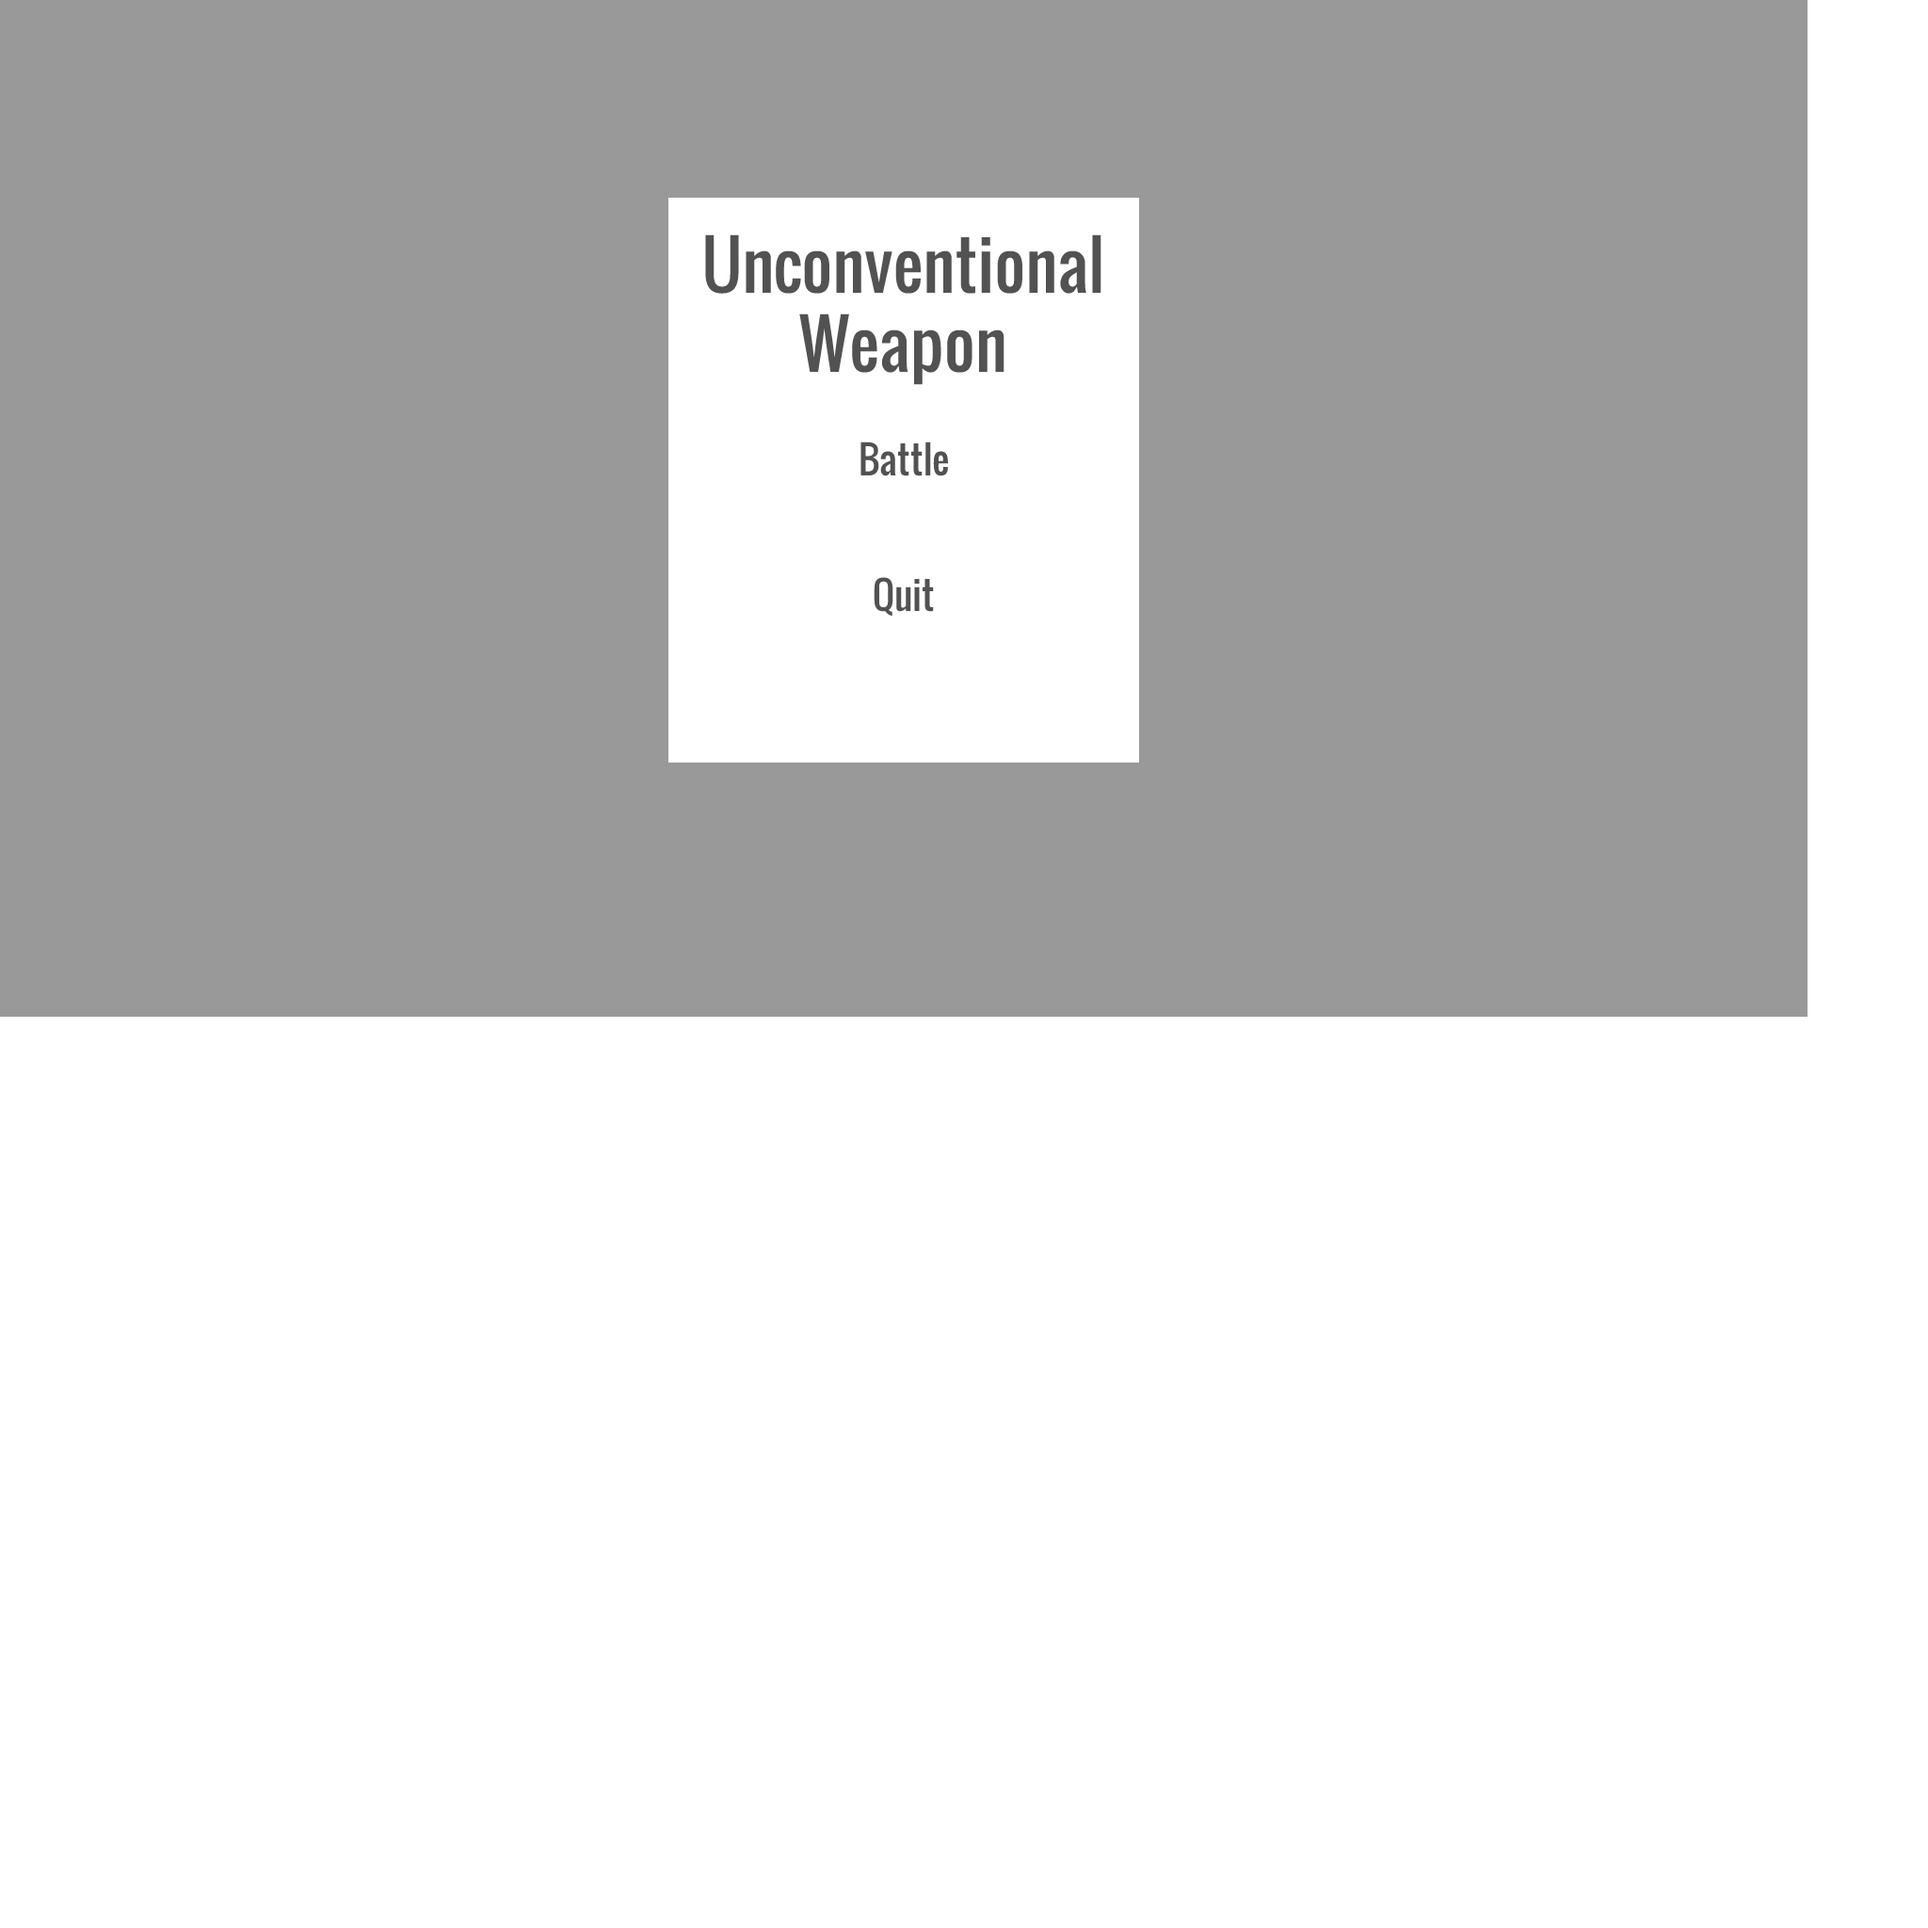
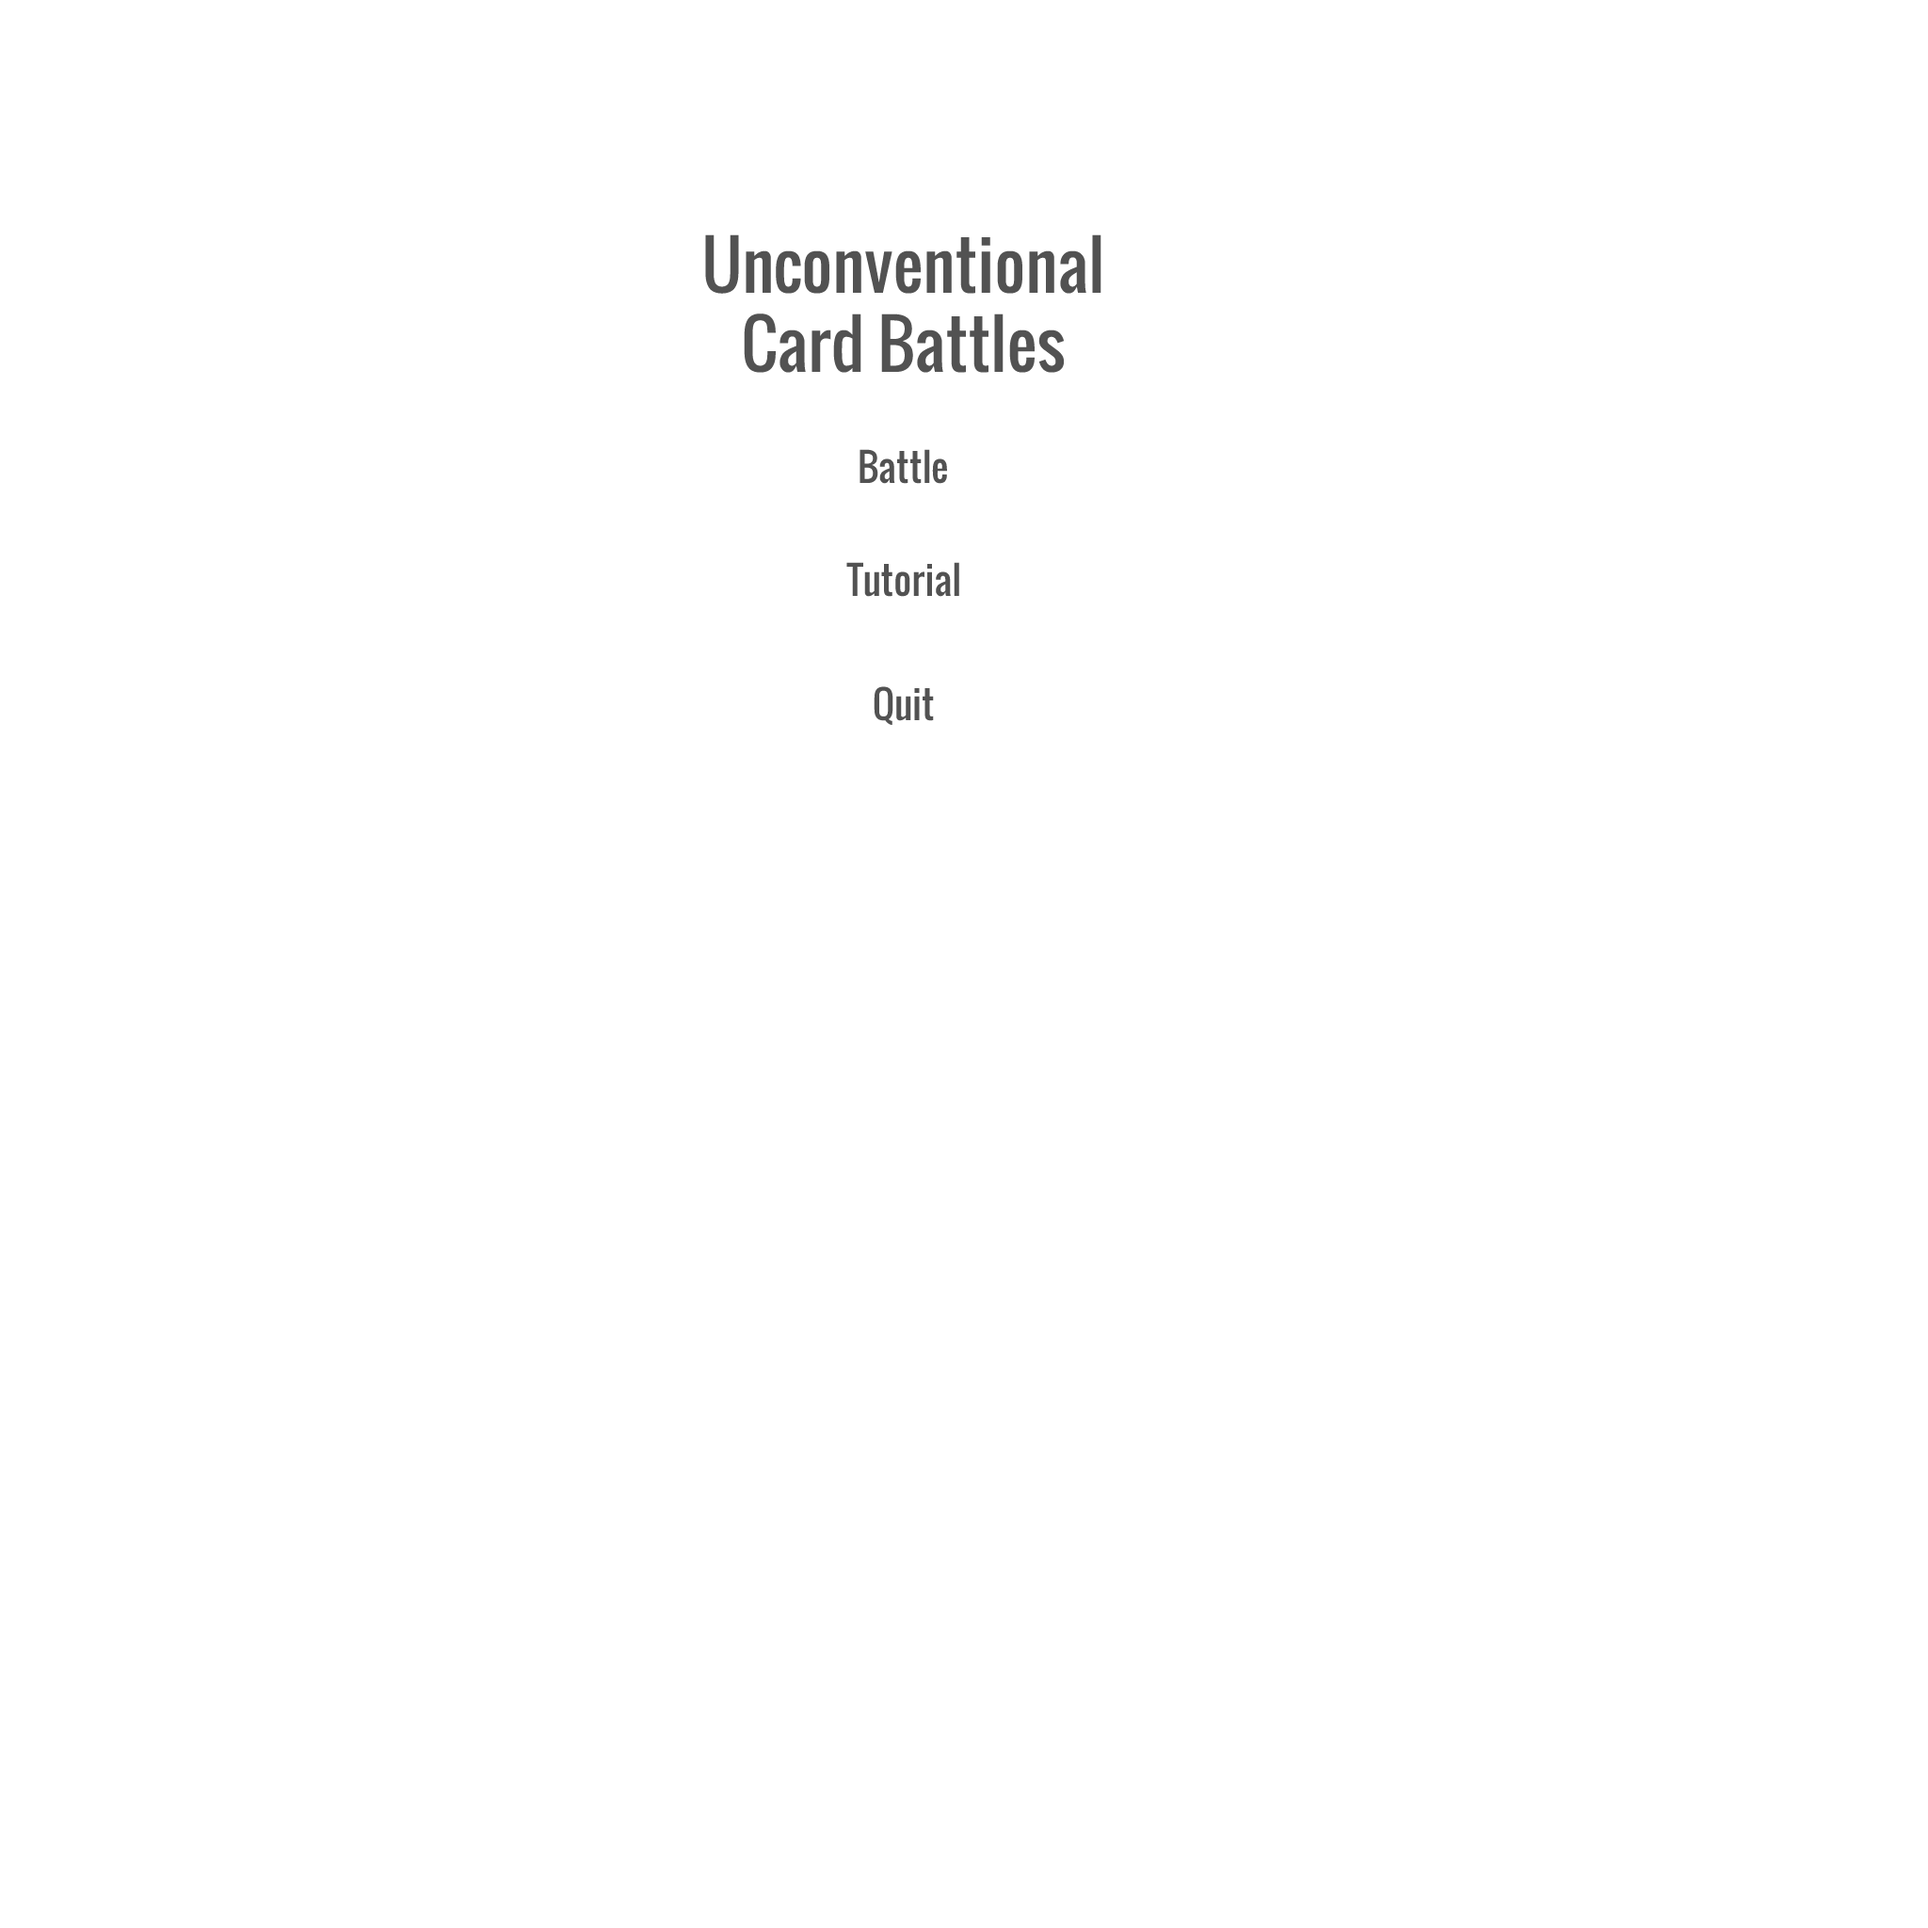
Added a tutorial

diff --git a/src/com/benjih/ld32/Launcher.java b/src/com/benjih/ld32/Launcher.java
@@ -22,7 +22,9 @@ public class Launcher {
 		
 		TurnState state = TurnState.PLAYER_DRAW;
 		boolean menu = true;
+		int tutorial = 0;
 		UserInterface userInterface = new UserInterface(resources);
+		long time = 0;
 		while (true) {
 			display.blit();
 			
@@ -30,16 +32,42 @@ public class Launcher {
 				userInterface.drawBackground();
 				new Image(0, 0, resources.getTexture("start-menu"), 1.0f).render();
 				
-				if (Mouse.isButtonDown(0) && MouseUtils.isClick(710, 468, 500, 52)) {
+				if (Mouse.isButtonDown(0) && MouseUtils.isClick(710, 476, 500, 52)) {
 					menu = false;
 				}
 				
-				if (Mouse.isButtonDown(0) && MouseUtils.isClick(710, 612, 500, 52)) {
+				if (Mouse.isButtonDown(0) && MouseUtils.isClick(710, 596, 500, 52)) {
+					menu = false;
+					tutorial = 1;
+				}
+				
+				
+				if (Mouse.isButtonDown(0) && MouseUtils.isClick(710, 728, 500, 52)) {
 					display.end();
 				}
 			}
 			
-			if(!state.equals(TurnState.ENEMY_WIN) && !state.equals(TurnState.PLAYER_WIN) && !menu) {
+			if(tutorial > 0) {
+				new Image(0, 0, resources.getTexture("tutorial-" + tutorial), 1.0f).render();
+				if(time == 0) {
+					time = GameDisplay.getTime();
+				}
+				
+				if (GameDisplay.getTime() >= time + 500) {
+					System.out.println(tutorial);
+					if (Mouse.isButtonDown(0) && MouseUtils.isClick(0, 0, 1920, 1080)) {
+						if(tutorial  == 13) {
+							tutorial = 0;
+							menu = true;
+						} else {
+							tutorial++;
+						}
+						time = 0;
+					}
+				}
+			}
+			
+			if(!state.equals(TurnState.ENEMY_WIN) && !state.equals(TurnState.PLAYER_WIN) && !menu && tutorial == 0) {
 				state = game.run(state);
 			} else if(state.equals(TurnState.ENEMY_WIN)) {
 				new Image(0, 0, resources.getTexture("loser"), 1.0f).render();

diff --git a/src/com/benjih/ld32/resources/ResourceManager.java b/src/com/benjih/ld32/resources/ResourceManager.java
@@ -17,6 +17,22 @@ public class ResourceManager {
 		textures.put("pause", FileLoader.loadTexture("res/pause.png"));
 		textures.put("pause-menu", FileLoader.loadTexture("res/pause-menu.png"));
 		
+		textures.put("tutorial-1", FileLoader.loadTexture("res/tutorial01.png"));
+		textures.put("tutorial-2", FileLoader.loadTexture("res/tutorial02.png"));
+		textures.put("tutorial-3", FileLoader.loadTexture("res/tutorial03.png"));
+		textures.put("tutorial-4", FileLoader.loadTexture("res/tutorial04.png"));
+		textures.put("tutorial-5", FileLoader.loadTexture("res/tutorial05.png"));
+		textures.put("tutorial-6", FileLoader.loadTexture("res/tutorial06.png"));
+		textures.put("tutorial-7", FileLoader.loadTexture("res/tutorial07.png"));
+		textures.put("tutorial-8", FileLoader.loadTexture("res/tutorial08.png"));
+		textures.put("tutorial-9", FileLoader.loadTexture("res/tutorial09.png"));
+		textures.put("tutorial-10", FileLoader.loadTexture("res/tutorial10.png"));
+		textures.put("tutorial-11", FileLoader.loadTexture("res/tutorial11.png"));
+		textures.put("tutorial-12", FileLoader.loadTexture("res/tutorial12.png"));
+		textures.put("tutorial-13", FileLoader.loadTexture("res/tutorial13.png"));
+		
+		
+		
 		textures.put(("start-menu"), FileLoader.loadTexture("res/start-menu.png"));
 		textures.put(("winner"), FileLoader.loadTexture("res/winner.png"));
 		textures.put(("loser"), FileLoader.loadTexture("res/loser.png"));
